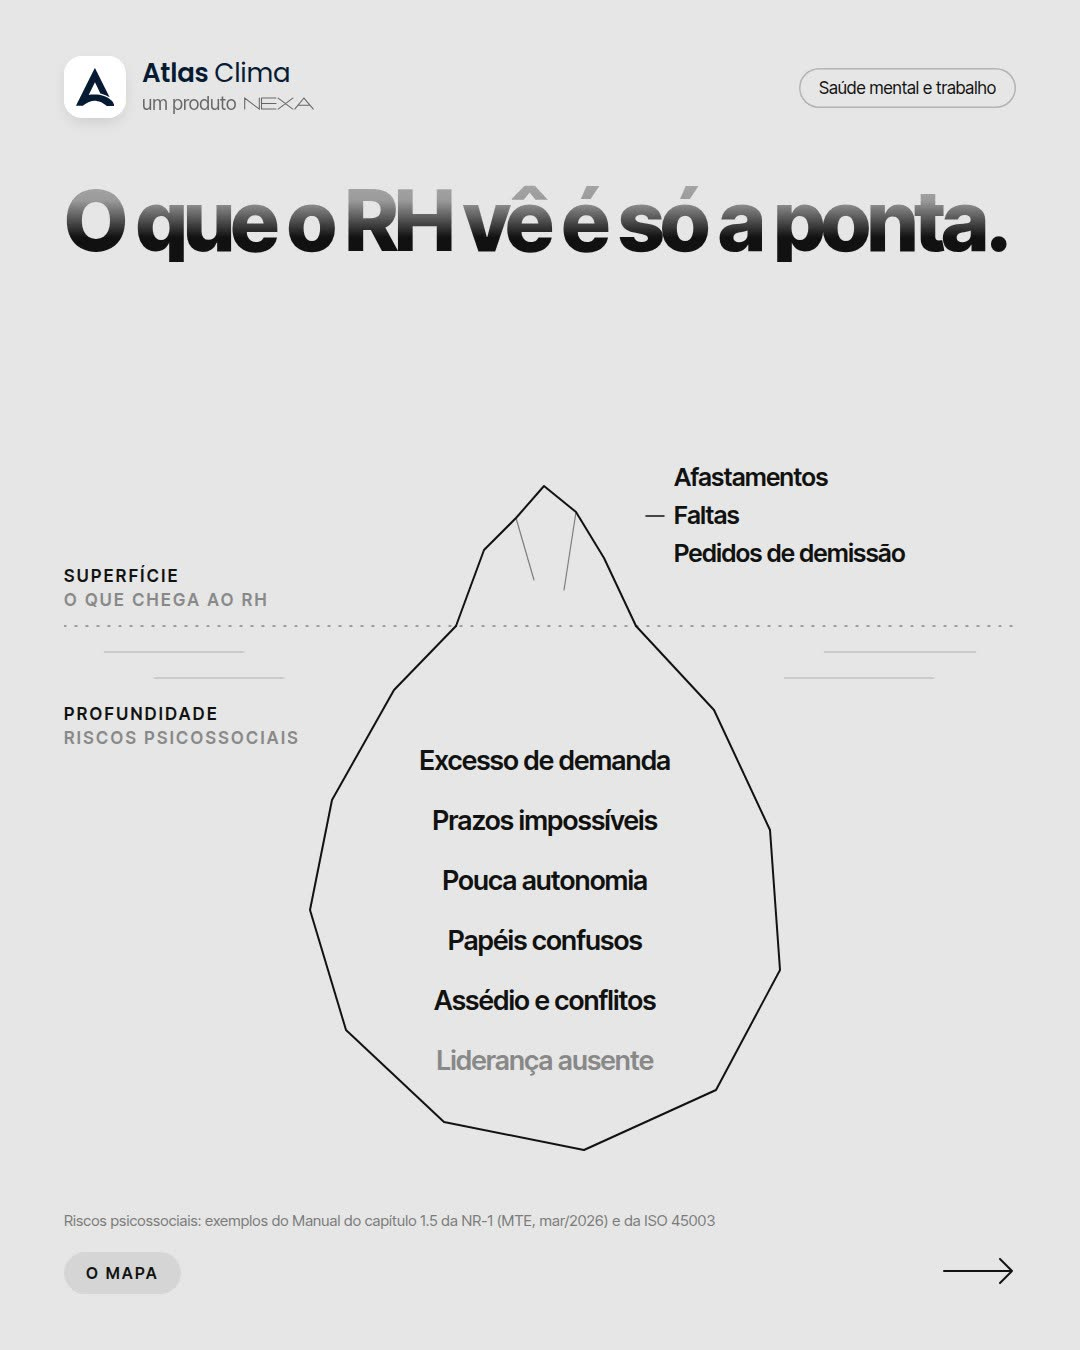
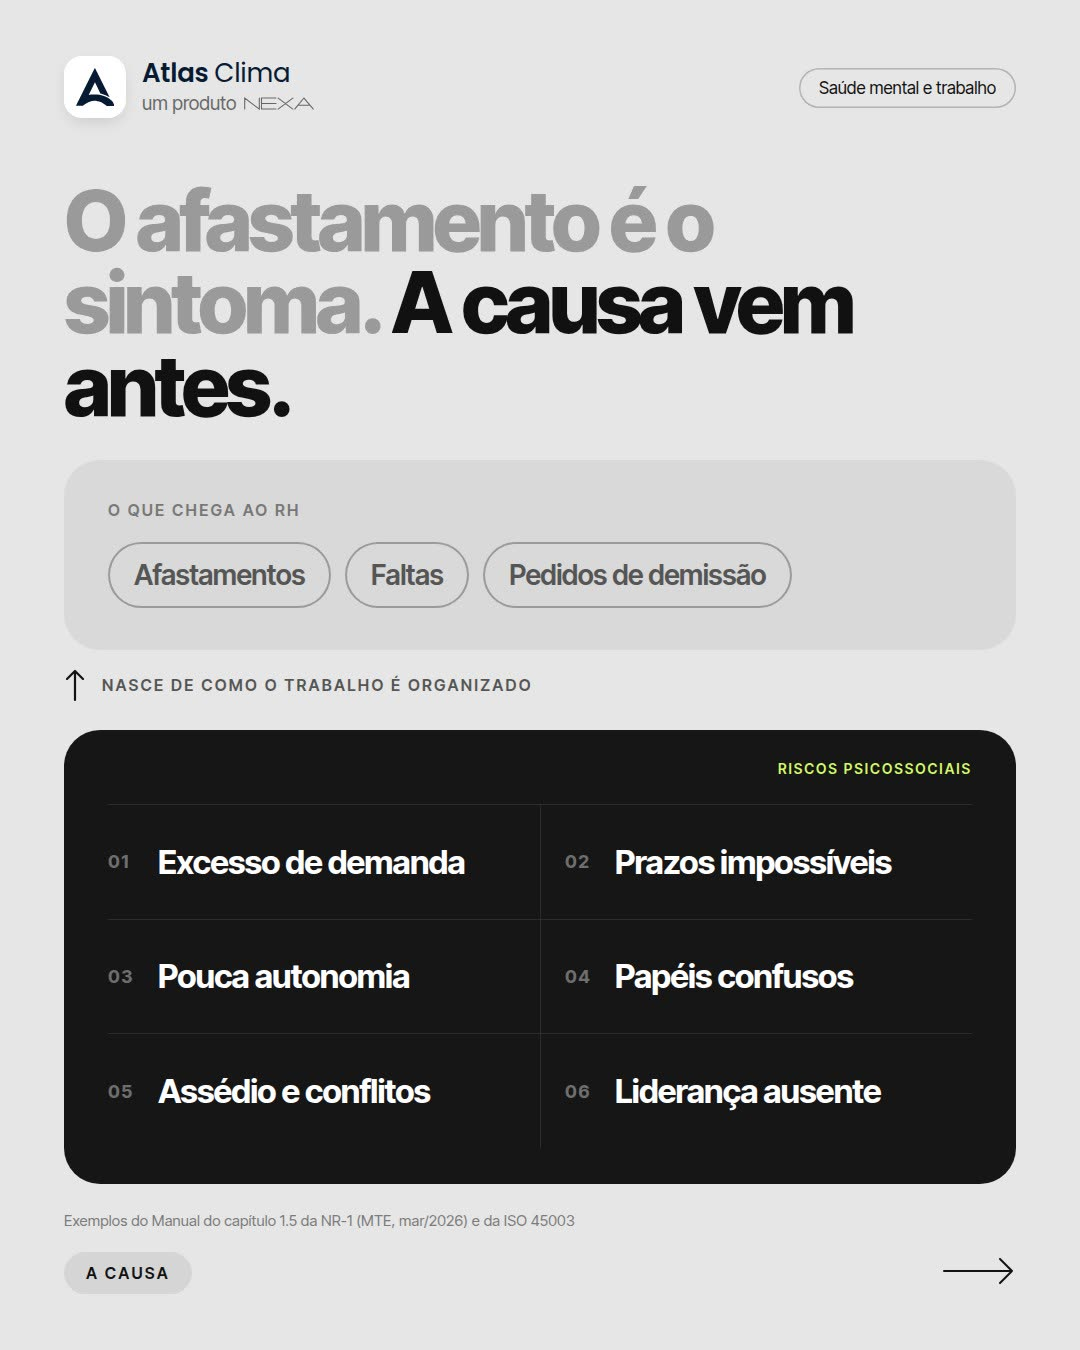
Carrossel Atlas saúde mental: sintoma e causa no lugar do iceberg
O card 5 deixa de repetir o iceberg do Sales Coach: o que chega ao RH numa
faixa clara e os riscos psicossociais que vêm antes num painel escuro em grade.

Claude-Session: https://claude.ai/code/session_01D69rV6pxRKedanUm525i1S

diff --git a/social/carrossel-atlas-saude-mental-v2/carrossel.html b/social/carrossel-atlas-saude-mental-v2/carrossel.html
@@ -8,7 +8,7 @@
 <style>
 /* Carrossel educativo da Atlas no estilo editorial do "Ponto cego" (1080×1350): cabeçalho de perfil,
    cards alternando foto escura, cinza claro com painel e preto com dado; letras pesadas com degradê;
-   iceberg em traço; conclusão em pílulas; telas reais do Atlas Clima no fecho. Fontes no rodapé de
+   sintoma e causa em painéis; conclusão em pílulas; telas reais do Atlas Clima no fecho. Fontes no rodapé de
    cada card (.src) e no README. ?s=1..11 escolhe o card. */
 * { margin: 0; padding: 0; box-sizing: border-box; }
 html, body { width: 1080px; height: 1350px; overflow: hidden; }
@@ -79,6 +79,13 @@ body.cla { background: #e6e6e6; color: #111; }
 .bar.esc.top i { background: #d4f969; }
 .bar.esc b { color: #8a8a8a; }
 .bar.esc.top b { color: #fff; }
+/* Sintoma e causa */
+.sint { display: inline-flex; align-items: center; padding: 16px 26px; border-radius: 999px; box-shadow: inset 0 0 0 2px #9a9a9a; font-size: 28px; font-weight: 600; letter-spacing: -.02em; color: #555; }
+.causas { position: absolute; left: 44px; right: 44px; top: 74px; bottom: 36px; display: grid; grid-template-columns: 1fr 1fr; grid-auto-rows: 1fr; }
+.causas div { display: flex; align-items: center; gap: 20px; font-size: 33px; font-weight: 700; letter-spacing: -.025em; color: #fff; border-top: 1.5px solid rgba(255,255,255,.1); }
+.causas div:nth-child(odd) { padding-right: 20px; }
+.causas div:nth-child(even) { padding-left: 24px; border-left: 1.5px solid rgba(255,255,255,.1); }
+.causas b { flex: none; width: 30px; font-size: 18px; font-weight: 700; letter-spacing: .08em; color: #6f6f6f; }
 /* Passos */
 .passo { display: grid; grid-template-columns: 84px 1fr; gap: 26px; padding: 30px 0; border-top: 1.5px solid rgba(0,0,0,.12); }
 .passo b { width: 66px; height: 66px; border-radius: 50%; background: #111; color: #d4f969; display: grid; place-items: center; font-size: 30px; font-weight: 800; }
@@ -142,35 +149,28 @@ body.cla { background: #e6e6e6; color: #111; }
   <div class="src">Previdência Social, dados de 2025 divulgados em jan/2026 (546.254; 472.328 em 2024) · contam afastamentos, não pessoas</div>
 </section>
 
-<!-- 6. Iceberg -->
-<section class="card" data-tema="cla" data-cap="O mapa">
-  <div class="h cla-g" style="position:absolute;left:64px;right:64px;top:180px;font-size:84px">O que o RH vê é só a ponta.</div>
-  <svg style="position:absolute;left:64px;top:390px" width="952" height="820" viewBox="0 0 952 820" fill="none" font-family="Inter Tight" stroke-linecap="round" stroke-linejoin="round">
-    <g stroke="#111" stroke-width="2">
-      <path d="M392 236 L420 160 L452 128 L480 96 L512 122 L540 168 L572 236"/>
-      <path d="M392 236 L330 300 L268 410 L246 520 L282 640 L380 732 L520 760 L652 700 L716 580 L706 440 L650 320 L572 236"/>
-      <path d="M452 128 L470 190 M512 122 L500 200" stroke-width="1.2" opacity=".5"/>
-    </g>
-    <path d="M0 236 H952" stroke="#111" stroke-width="1.2" stroke-dasharray="2 9" opacity=".7"/>
-    <path d="M40 262 H180 M760 262 H912 M90 288 H220 M720 288 H870" stroke="#111" stroke-width="1.2" opacity=".25"/>
-    <g fill="#111" font-size="17" font-weight="600" letter-spacing="2.4">
-      <text x="0" y="192">SUPERFÍCIE</text><text x="0" y="216" fill="#888">O QUE CHEGA AO RH</text>
-      <text x="0" y="330">PROFUNDIDADE</text><text x="0" y="354" fill="#888">RISCOS PSICOSSOCIAIS</text>
-    </g>
-    <g fill="#111" font-size="25" font-weight="600" letter-spacing="-.4">
-      <text x="610" y="96">Afastamentos</text><text x="610" y="134">Faltas</text><text x="610" y="172">Pedidos de demissão</text>
-      <path d="M582 126 H600" stroke="#111" stroke-width="1.5"/>
-    </g>
-    <g fill="#111" font-size="27" font-weight="600" letter-spacing="-.4" text-anchor="middle">
-      <text x="481" y="380">Excesso de demanda</text>
-      <text x="481" y="440">Prazos impossíveis</text>
-      <text x="481" y="500">Pouca autonomia</text>
-      <text x="481" y="560">Papéis confusos</text>
-      <text x="481" y="620">Assédio e conflitos</text>
-      <text x="481" y="680" fill="#888">Liderança ausente</text>
-    </g>
-  </svg>
-  <div class="src">Riscos psicossociais: exemplos do Manual do capítulo 1.5 da NR-1 (MTE, mar/2026) e da ISO 45003</div>
+<!-- 5. Sintoma e causa -->
+<section class="card" data-tema="cla" data-cap="A causa">
+  <div class="h" style="position:absolute;left:64px;right:64px;top:180px;font-size:84px"><span class="cz">O afastamento é o sintoma.</span> A causa vem antes.</div>
+  <div class="painel" style="top:460px;height:190px;padding:40px 44px">
+    <div class="caps" style="font-size:16px;color:#777">O que chega ao RH</div>
+    <div style="display:flex;gap:14px;margin-top:22px">
+      <span class="sint">Afastamentos</span><span class="sint">Faltas</span><span class="sint">Pedidos de demissão</span>
+    </div>
+  </div>
+  <div style="position:absolute;left:64px;right:64px;top:668px;display:flex;align-items:center;gap:16px">
+    <svg width="22" height="34" viewBox="0 0 22 34" fill="none"><path d="M11 32V3M3 11l8-8 8 8" stroke="#111" stroke-width="2.2" stroke-linecap="round" stroke-linejoin="round"/></svg>
+    <span class="caps" style="font-size:16px;color:#555">nasce de como o trabalho é organizado</span>
+  </div>
+  <div class="painel esc" style="top:730px;bottom:166px;padding:0">
+    <div class="causas">
+      <div><b>01</b>Excesso de demanda</div><div><b>02</b>Prazos impossíveis</div>
+      <div><b>03</b>Pouca autonomia</div><div><b>04</b>Papéis confusos</div>
+      <div><b>05</b>Assédio e conflitos</div><div><b>06</b>Liderança ausente</div>
+    </div>
+    <div class="caps" style="position:absolute;right:44px;top:30px;font-size:14px;color:#d4f969">Riscos psicossociais</div>
+  </div>
+  <div class="src">Exemplos do Manual do capítulo 1.5 da NR-1 (MTE, mar/2026) e da ISO 45003</div>
 </section>
 
 <!-- 7. A regra -->

diff --git a/social/carrossel-atlas-saude-mental-v2/README.md b/social/carrossel-atlas-saude-mental-v2/README.md
@@ -2,13 +2,13 @@
 
 Versão do carrossel educativo da Atlas (`../carrossel-atlas-saude-mental/`, versão clara) na estética do
 "Ponto cego" (`../carrossel-ponto-cego/`): cabeçalho de perfil, cards alternando foto escura, cinza claro com
-painel e preto com dado, letras pesadas com degradê, iceberg em traço, pílulas e telas reais no fecho.
+painel e preto com dado, letras pesadas com degradê, pílulas e telas reais no fecho.
 
 1. Capa com o dado: saúde mental 48%, câncer 40%, estresse 32%, obesidade 25% (Ipsos Health Service Report 2026, 32 países, 22.528 adultos, jul–ago/2026).
 2. O Brasil: 58% em 2026; 18% em 2018, quando o câncer liderava com 57% (Ipsos 2018 e 2026).
 3. Foto: Ninguém deixa a cabeça no estacionamento.
 4. 546 mil afastamentos por transtornos mentais em 2025, +16% sobre 2024; ansiedade 166 mil, episódios depressivos 127 mil (Previdência Social, jan/2026).
-5. Iceberg: o que chega ao RH (afastamentos, faltas, pedidos de demissão) e os riscos psicossociais embaixo (Manual do cap. 1.5 da NR-1, MTE, mar/2026; ISO 45003).
+5. Sintoma e causa: o que chega ao RH (afastamentos, faltas, pedidos de demissão) e os riscos psicossociais que vêm antes (Manual do cap. 1.5 da NR-1, MTE, mar/2026; ISO 45003).
 6. A regra: NR-1 desde 26/05/2026 (Portarias MTE nº 1.419/2024 e nº 765/2025).
 7. Pílulas: palestra no Setembro Amarelo x indicador o ano todo.
 8. Como medir, na prática (4 passos).
